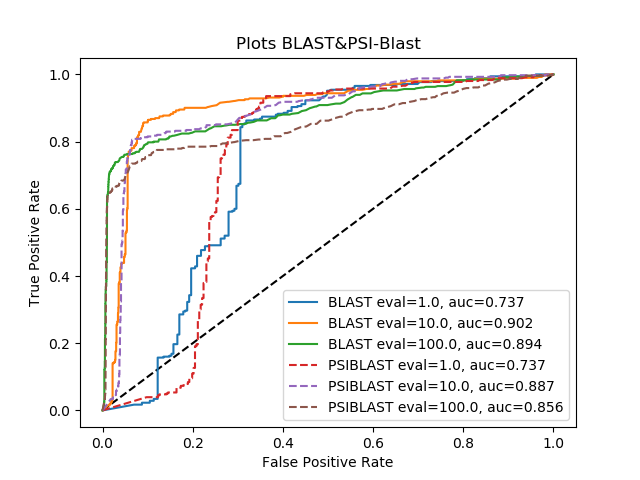
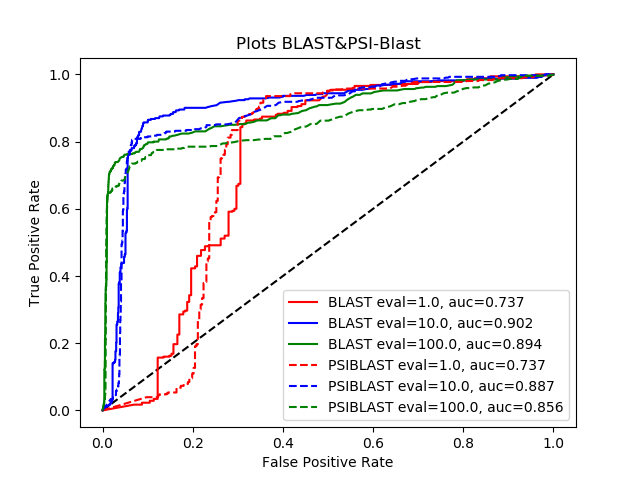
same color for blast&psi

diff --git a/create_roc_plot.py b/create_roc_plot.py
@@ -92,7 +92,7 @@ def integrate(x, y):
     return auc
 
 
-def roc_plot(blast_evalues, benchmark_dict, png_filename, evalue_blast, threshold):
+def roc_plot(blast_evalues, benchmark_dict, png_filename, evalue_blast, threshold, clr):
     """
     Draw the ROC plot for a given set of e-values and corresponding benchmark classifications.
 
@@ -139,7 +139,7 @@ def roc_plot(blast_evalues, benchmark_dict, png_filename, evalue_blast, threshol
     auc = integrate(x, y)
 
     ### Draw the plot and write it to a file
-    pylab.plot(x, y, label="BLAST eval={0}, auc={1:.3f}".format(evalue_blast, auc))
+    pylab.plot(x, y, label="BLAST eval={0}, auc={1:.3f}".format(evalue_blast, auc), color=clr)
 
 
 
@@ -150,7 +150,7 @@ def roc_plot(blast_evalues, benchmark_dict, png_filename, evalue_blast, threshol
     return auc
 
 
-def roc_plot_psi(blast_evalues, benchmark_dict, png_filename, evalue_blast, threshold):
+def roc_plot_psi(blast_evalues, benchmark_dict, png_filename, evalue_blast, threshold, clr):
     """
     Draw the ROC plot for a given set of e-values and corresponding benchmark classifications.
 
@@ -197,7 +197,7 @@ def roc_plot_psi(blast_evalues, benchmark_dict, png_filename, evalue_blast, thre
     auc = integrate(x, y)
 
     ### Draw the plot and write it to a file
-    pylab.plot(x, y, label="PSIBLAST eval={0}, auc={1:.3f}".format(evalue_blast, auc), linestyle="dashed")
+    pylab.plot(x, y, label="PSIBLAST eval={0}, auc={1:.3f}".format(evalue_blast, auc), linestyle="dashed", color=clr)
 
 
 
@@ -215,7 +215,7 @@ def main(blast_results_map, benchmark_results_file, png_file):
     pylab.ylabel('True Positive Rate')
     pylab.title('Plots BLAST&PSI-Blast')
 
-
+    colors = ['r', 'b', 'g']
     evalues = [1.0, 10.0, 100.0]
     auc_list = []
     for i in range(len(evalues)):
@@ -225,7 +225,7 @@ def main(blast_results_map, benchmark_results_file, png_file):
         benchmark_results = parse_benchmark_results(benchmark_results_file)
 
         # Draw and save the ROC plot
-        roc_plot(blast_evalues, benchmark_results, png_file, evalue_blast, evalues[i])
+        roc_plot(blast_evalues, benchmark_results, png_file, evalue_blast, evalues[i], colors[i])
 
     for i in range(len(evalues)):
         evalue_psiblast = evalues[i]
@@ -234,7 +234,7 @@ def main(blast_results_map, benchmark_results_file, png_file):
         benchmark_results = parse_benchmark_results(benchmark_results_file)
 
         # Draw and save the ROC plot
-        roc_plot_psi(blast_evalues, benchmark_results, png_file, evalue_psiblast, evalues[i])
+        roc_plot_psi(blast_evalues, benchmark_results, png_file, evalue_psiblast, evalues[i], colors[i])
 
 
 
